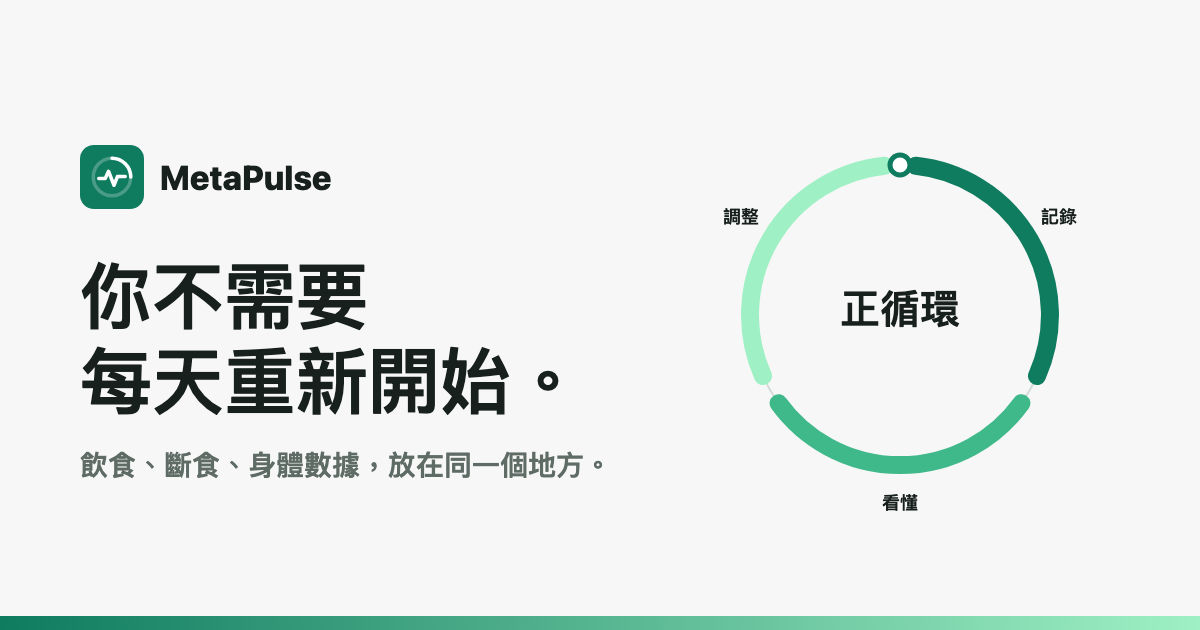
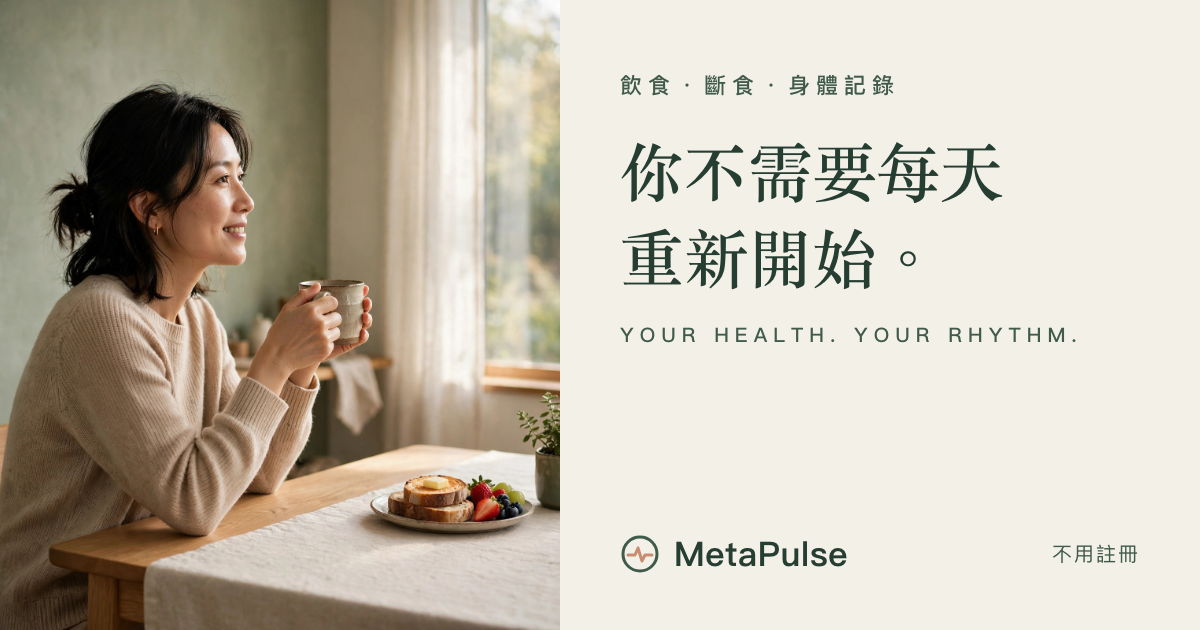
landing：換品牌配色與襯線標題、加入生活照片、重做分享預覽圖、分享網址改用 jjptt1980.github.io

diff --git a/landing/index.html b/landing/index.html
@@ -5,22 +5,22 @@
 <meta name="viewport" content="width=device-width, initial-scale=1">
 <title>MetaPulse｜你不需要每天重新開始</title>
 <meta name="description" content="MetaPulse 把飲食、斷食時間和身體數據放在同一個地方。每天記一點，用一週的節奏和 7 天平均，慢慢看懂自己的模式。不用註冊，資料存在自己的裝置。">
-<meta name="theme-color" content="#0f7b5f">
+<meta name="theme-color" content="#405B49">
 <link rel="icon" href="../icons/icon.svg" type="image/svg+xml">
 <link rel="apple-touch-icon" href="../icons/icon-180.png">
 <meta property="og:type" content="website">
 <meta property="og:site_name" content="MetaPulse">
 <meta property="og:title" content="MetaPulse｜你不需要每天重新開始">
 <meta property="og:description" content="飲食、斷食、身體數據放在同一個地方。每天記一點，慢慢看懂自己的模式。">
-<meta property="og:url" content="https://killnopig.github.io/metapulse/landing/">
-<meta property="og:image" content="https://killnopig.github.io/metapulse/landing/og.png">
+<meta property="og:url" content="https://jjptt1980.github.io/metapulse/landing/">
+<meta property="og:image" content="https://jjptt1980.github.io/metapulse/landing/og.png">
 <meta property="og:image:width" content="1200">
 <meta property="og:image:height" content="630">
 <meta property="og:locale" content="zh_TW">
 <meta name="twitter:card" content="summary_large_image">
 <meta name="twitter:title" content="MetaPulse｜你不需要每天重新開始">
 <meta name="twitter:description" content="飲食、斷食、身體數據放在同一個地方。每天記一點，慢慢看懂自己的模式。">
-<meta name="twitter:image" content="https://killnopig.github.io/metapulse/landing/og.png">
+<meta name="twitter:image" content="https://jjptt1980.github.io/metapulse/landing/og.png">
 <link rel="stylesheet" href="style.css">
 <script>document.documentElement.classList.add('js')</script>
 </head>
@@ -48,26 +48,13 @@
         <a class="btn ghost" href="#loop" data-scroll>了解怎麼運作</a>
       </div>
     </div>
-    <div class="hero-art reveal d2" aria-hidden="true">
-      <svg viewBox="-20 -20 440 440">
-        <defs>
-          <linearGradient id="g1" x1="0" x2="1" y1="0" y2="1"><stop offset="0" stop-color="var(--ac)"/><stop offset="1" stop-color="var(--glow)"/></linearGradient>
-        </defs>
-        <circle cx="200" cy="200" r="150" fill="none" stroke="var(--ring-off)" stroke-width="2"/>
-        <circle cx="200" cy="200" r="118" fill="none" stroke="var(--ln)" stroke-width="1" stroke-dasharray="2 6"/>
-        <polyline class="dataline" fill="none" stroke-width="2" points="100,282 125,274 145,279 165,264 187,269 209,254 231,259 253,246 275,250 300,238"/>
-        <polyline class="dataline" fill="none" stroke-width="2" style="opacity:.1" points="110,300 135,295 160,298 188,288 215,291 242,283 272,285 295,276"/>
-        <path d="M215.7 50.8A150 150 0 0 1 337.0 261.0" fill="none" stroke="var(--ac)" stroke-width="16" stroke-linecap="round"/>
-        <path d="M321.4 288.2A150 150 0 0 1 78.6 288.2" fill="none" stroke="url(#g1)" stroke-width="16" stroke-linecap="round"/>
-        <path d="M63.0 261.0A150 150 0 0 1 184.3 50.8" fill="none" stroke="var(--glow)" stroke-width="16" stroke-linecap="round"/>
-        <circle class="flow" cx="200" cy="200" r="150" fill="none" stroke="#fff" stroke-opacity=".7" stroke-width="3" stroke-dasharray="1 22" stroke-linecap="round"/>
-        <g class="spin"><circle cx="200" cy="50" r="9" fill="var(--card)" stroke="var(--ac)" stroke-width="4"/></g>
-        <text class="hero-label" x="359" y="108" text-anchor="middle">記錄</text>
-        <text class="hero-label" x="200" y="392" text-anchor="middle">看懂</text>
-        <text class="hero-label" x="41" y="108" text-anchor="middle">調整</text>
-        <text class="hero-center" x="200" y="196" text-anchor="middle">正循環</text>
-        <text class="hero-center-sub" x="200" y="222" text-anchor="middle">記錄 → 看懂 → 調整</text>
-      </svg>
+    <div class="hero-art reveal d2">
+      <img class="photo" src="photo-morning.jpg" width="1000" height="1000" alt="早晨在家喝咖啡的人（AI 生成照片）" fetchpriority="high">
+      <div class="hero-tag" aria-hidden="true">
+        <svg viewBox="0 0 52 52"><circle cx="26" cy="26" r="20" fill="none" stroke="var(--ring-off)" stroke-width="5"/><circle cx="26" cy="26" r="20" fill="none" stroke="var(--ac)" stroke-width="5" stroke-linecap="round" stroke-dasharray="125.7" stroke-dashoffset="40" transform="rotate(-90 26 26)"/><circle cx="26" cy="26" r="20" fill="none" stroke="var(--clay)" stroke-width="5" stroke-linecap="round" stroke-dasharray="8 117.7" stroke-dashoffset="-90" transform="rotate(-90 26 26)"/></svg>
+        <div><b>七天一起算</b><span>今天多一點，明天不用重來</span></div>
+      </div>
+    </div>
     </div>
   </div>
 </section>
@@ -141,6 +128,7 @@
   <div class="wrap">
     <span class="eyebrow reveal">三種記錄</span>
     <h2 id="h-three" class="reveal">飲食、時間、身體，<br>放在同一張圖裡看。</h2>
+    <img class="banner reveal" src="photo-dinner.jpg" width="1400" height="1400" loading="lazy" alt="下班後在家吃晚餐的人（AI 生成照片）">
     <div class="cards">
       <article class="card reveal">
         <div class="ic"><svg width="24" height="24" viewBox="0 0 24 24" fill="none" stroke="currentColor" stroke-width="2" stroke-linecap="round" aria-hidden="true"><path d="M7 3v8a2 2 0 0 0 2 2v8M11 3v6M5 3v6M17 3c-2 2-2 6 0 8v10"/></svg></div>
@@ -248,9 +236,14 @@
 <!-- 6. 隱私 -->
 <div class="wrap privacy-wrap">
 <section class="privacy reveal" aria-labelledby="h-priv">
-  <span class="eyebrow">隱私</span>
-  <h2 id="h-priv" style="font-size:clamp(26px,5.6vw,40px);font-weight:800">不用註冊，<br>資料存在你自己的裝置。</h2>
-  <p class="lead">MetaPulse 沒有自己的伺服器，所以也沒有地方可以收集你的資料。</p>
+  <div class="priv-head">
+    <div>
+      <span class="eyebrow">隱私</span>
+      <h2 id="h-priv" style="font-size:clamp(26px,5.6vw,40px);font-weight:800">不用註冊，<br>資料存在你自己的裝置。</h2>
+      <p class="lead">MetaPulse 沒有自己的伺服器，所以也沒有地方可以收集你的資料。</p>
+    </div>
+    <img class="priv-photo" src="photo-home.jpg" width="1000" height="1000" loading="lazy" alt="在家沙發上拿著手機的人（AI 生成照片）">
+  </div>
   <div class="p-grid">
     <div class="p-item">
       <svg viewBox="0 0 24 24" fill="none" stroke="currentColor" stroke-width="2" stroke-linecap="round" aria-hidden="true"><rect x="3" y="4" width="18" height="7" rx="2"/><rect x="3" y="13" width="18" height="7" rx="2"/><path d="M3 3l18 18"/></svg>

diff --git a/landing/style.css b/landing/style.css
@@ -1,24 +1,27 @@
-/* MetaPulse 廣宣頁：顏色沿用 App 的設計變數；手機（412px）優先重新排版 */
+/* MetaPulse 廣宣頁：品牌配色（暖米白、鼠尾草綠、森林綠、陶土橘）；手機（412px）優先重新排版 */
 :root{
-  --bg:#f6f7f6;--card:#fff;--tx:#17201c;--mu:#5f6b65;--ln:#e3e7e4;--ac:#0f7b5f;
-  --cream:#f6f2e9;--glow:#9ff0c4;--ac-soft:rgba(15,123,95,.1);--ring-off:#d5dbd7;
-  --deep:#13201b;--deep-tx:#eef4f0;--deep-mu:#a9bab1;
-  --shadow:0 1px 2px rgba(23,32,28,.04),0 8px 28px rgba(23,32,28,.07);
-  --r:20px;--max:1120px;
+  --bg:#F3F0E8;--card:#FFFDF8;--tx:#263D32;--mu:#5A6B5F;--ln:#E2DDD1;--ac:#405B49;
+  --cream:#FAF8F2;--glow:#A8B9A0;--clay:#C98E70;--ac-soft:rgba(64,91,73,.1);--ring-off:#DAD5C9;
+  --deep:#263D32;--deep-tx:#FAF8F2;--deep-mu:#C5D0C0;
+  --shadow:0 1px 2px rgba(38,61,50,.04),0 10px 30px rgba(38,61,50,.08);
+  --r:24px;--max:1120px;
   --font:system-ui,-apple-system,"Noto Sans TC","PingFang TC",sans-serif;
+  --serif:"Noto Serif TC","Noto Serif CJK TC","Songti TC",serif;
   color-scheme:light;
 }
 @media (prefers-color-scheme:dark){:root{
-  --bg:#0f1311;--card:#171c19;--tx:#e7ece9;--mu:#9aa89f;--ln:#26302b;--ac:#3ccf9a;
-  --cream:#141a16;--glow:#3ccf9a;--ac-soft:rgba(60,207,154,.12);--ring-off:#2c3631;
-  --deep:#0b0f0d;--deep-tx:#e7ece9;--deep-mu:#9aa89f;
+  --bg:#18211C;--card:#202B25;--tx:#EDEAE2;--mu:#A9B3A8;--ln:#2F3B34;--ac:#A8B9A0;
+  --cream:#1C2620;--glow:#A8B9A0;--clay:#D9A285;--ac-soft:rgba(168,185,160,.14);--ring-off:#35423A;
+  --deep:#111915;--deep-tx:#EDEAE2;--deep-mu:#A9B3A8;
   --shadow:0 1px 2px rgba(0,0,0,.3),0 10px 30px rgba(0,0,0,.35);
   color-scheme:dark;
 }}
+h1,h2{font-family:var(--serif);font-weight:700!important}
 *{box-sizing:border-box}
 html{scroll-behavior:smooth;-webkit-text-size-adjust:100%}
 body{margin:0;background:var(--bg);color:var(--tx);font:16px/1.7 var(--font);overflow-x:hidden}
 img,svg{display:block;max-width:100%}
+img{height:auto}
 a{color:var(--ac)}
 h1,h2,h3{line-height:1.25;margin:0;letter-spacing:.01em}
 p{margin:0}
@@ -69,8 +72,15 @@ h1,h2,.lead,.aux{text-wrap:balance}
 .hero .sub{font-size:clamp(19px,4.4vw,24px);font-weight:700;margin-top:14px}
 .hero .aux{color:var(--mu);margin-top:12px;font-size:16px;max-width:520px}
 .cta{display:flex;flex-wrap:wrap;gap:12px;margin-top:26px}
-.hero-art{position:relative;width:min(100%,420px);margin:0 auto;aspect-ratio:1}
-.hero-art svg{width:100%;height:100%}
+.hero-art{position:relative;width:min(100%,480px);margin:0 auto}
+.hero-art .photo{width:100%;aspect-ratio:1;object-fit:cover;object-position:30% center;border-radius:28px;box-shadow:var(--shadow);background:var(--ln)}
+.hero-tag{position:absolute;right:-6px;bottom:22px;background:var(--card);border-radius:20px;padding:14px 16px;box-shadow:var(--shadow);display:flex;align-items:center;gap:12px}
+.hero-tag svg{width:52px;height:52px;flex:none}
+.hero-tag b{display:block;font-size:15px}
+.hero-tag span{display:block;font-size:13px;color:var(--mu)}
+@media (min-width:520px){.hero-tag{right:-18px}}
+.banner{width:100%;aspect-ratio:4/3;object-fit:cover;border-radius:24px;margin-top:32px;box-shadow:var(--shadow);background:var(--ln)}
+@media (min-width:720px){.banner{aspect-ratio:21/8;object-position:center 28%}}
 .flow{animation:dash 14s linear infinite}
 @keyframes dash{to{stroke-dashoffset:-600}}
 .spin{transform-origin:200px 200px;animation:spin 18s linear infinite}
@@ -179,7 +189,10 @@ h1,h2,.lead,.aux{text-wrap:balance}
 .privacy{border:1px solid var(--ln);background:var(--deep);color:var(--deep-tx);border-radius:32px;padding:56px 24px;position:relative;overflow:hidden}
 .privacy .eyebrow{color:var(--glow)}
 .privacy .lead{color:var(--deep-mu)}
-.privacy::after{content:"";position:absolute;width:520px;height:520px;right:-180px;top:-200px;border-radius:50%;border:60px solid rgba(60,207,154,.08)}
+.privacy::after{content:"";position:absolute;width:520px;height:520px;right:-180px;top:-200px;border-radius:50%;border:60px solid rgba(168,185,160,.08)}
+.priv-head{display:grid;gap:28px;position:relative;z-index:1}
+.priv-photo{width:100%;aspect-ratio:4/3;object-fit:cover;object-position:35% 30%;border-radius:22px;background:rgba(255,255,255,.06)}
+@media (min-width:820px){.priv-head{grid-template-columns:1.1fr .9fr;align-items:center}.priv-photo{aspect-ratio:1}}
 .p-grid{display:grid;gap:14px;margin-top:36px;position:relative;z-index:1}
 .p-item{background:rgba(255,255,255,.05);border:1px solid rgba(255,255,255,.1);border-radius:18px;padding:20px}
 .p-item svg{color:var(--glow);width:28px;height:28px}
@@ -200,6 +213,8 @@ h1,h2,.lead,.aux{text-wrap:balance}
 .end{text-align:center;padding:100px 0}
 .end h2{font-size:clamp(30px,7vw,52px);font-weight:850}
 .end h2 + h2{color:var(--ac)}
+.btn.pri{color:#FAF8F2}
+@media (prefers-color-scheme:dark){.btn.pri{color:#18211C}}
 .end .cta{justify-content:center;margin-top:34px}
 .end .ios{font-size:14px;color:var(--mu);margin-top:18px}
 

diff --git a/docs/STATUS.md b/docs/STATUS.md
@@ -5,6 +5,7 @@
 - Android APK：正式版 1.4.1（2026-11-20 發布，已自動貼 FB）
 
 ## 最近完成
+- 宣傳頁（landing）換成品牌配色（暖米白、鼠尾草綠、森林綠、陶土橘），標題改用襯線字；首頁、三種記錄、隱私三段加上 AI 生成的生活照片（`landing/photo-*.jpg`）；分享預覽圖 `og.png` 重做；`og:url`、`og:image` 改用 jjptt1980.github.io。廣告素材的原始檔在 `~/Projects/metapulse-ads`（不在這個 repo）。
 - 版面上下間距縮成約 2/3（`index.html` 最後的「v0.9.58 精簡版面」CSS 段），之後新畫面照這個密度。
 - 今日剩餘大字、蛋白質寫「還差幾 g」、開始斷食放進「進食中」那一列。
 - 先存的餐點改成「還沒吃」提醒條（吃了／刪除）。
